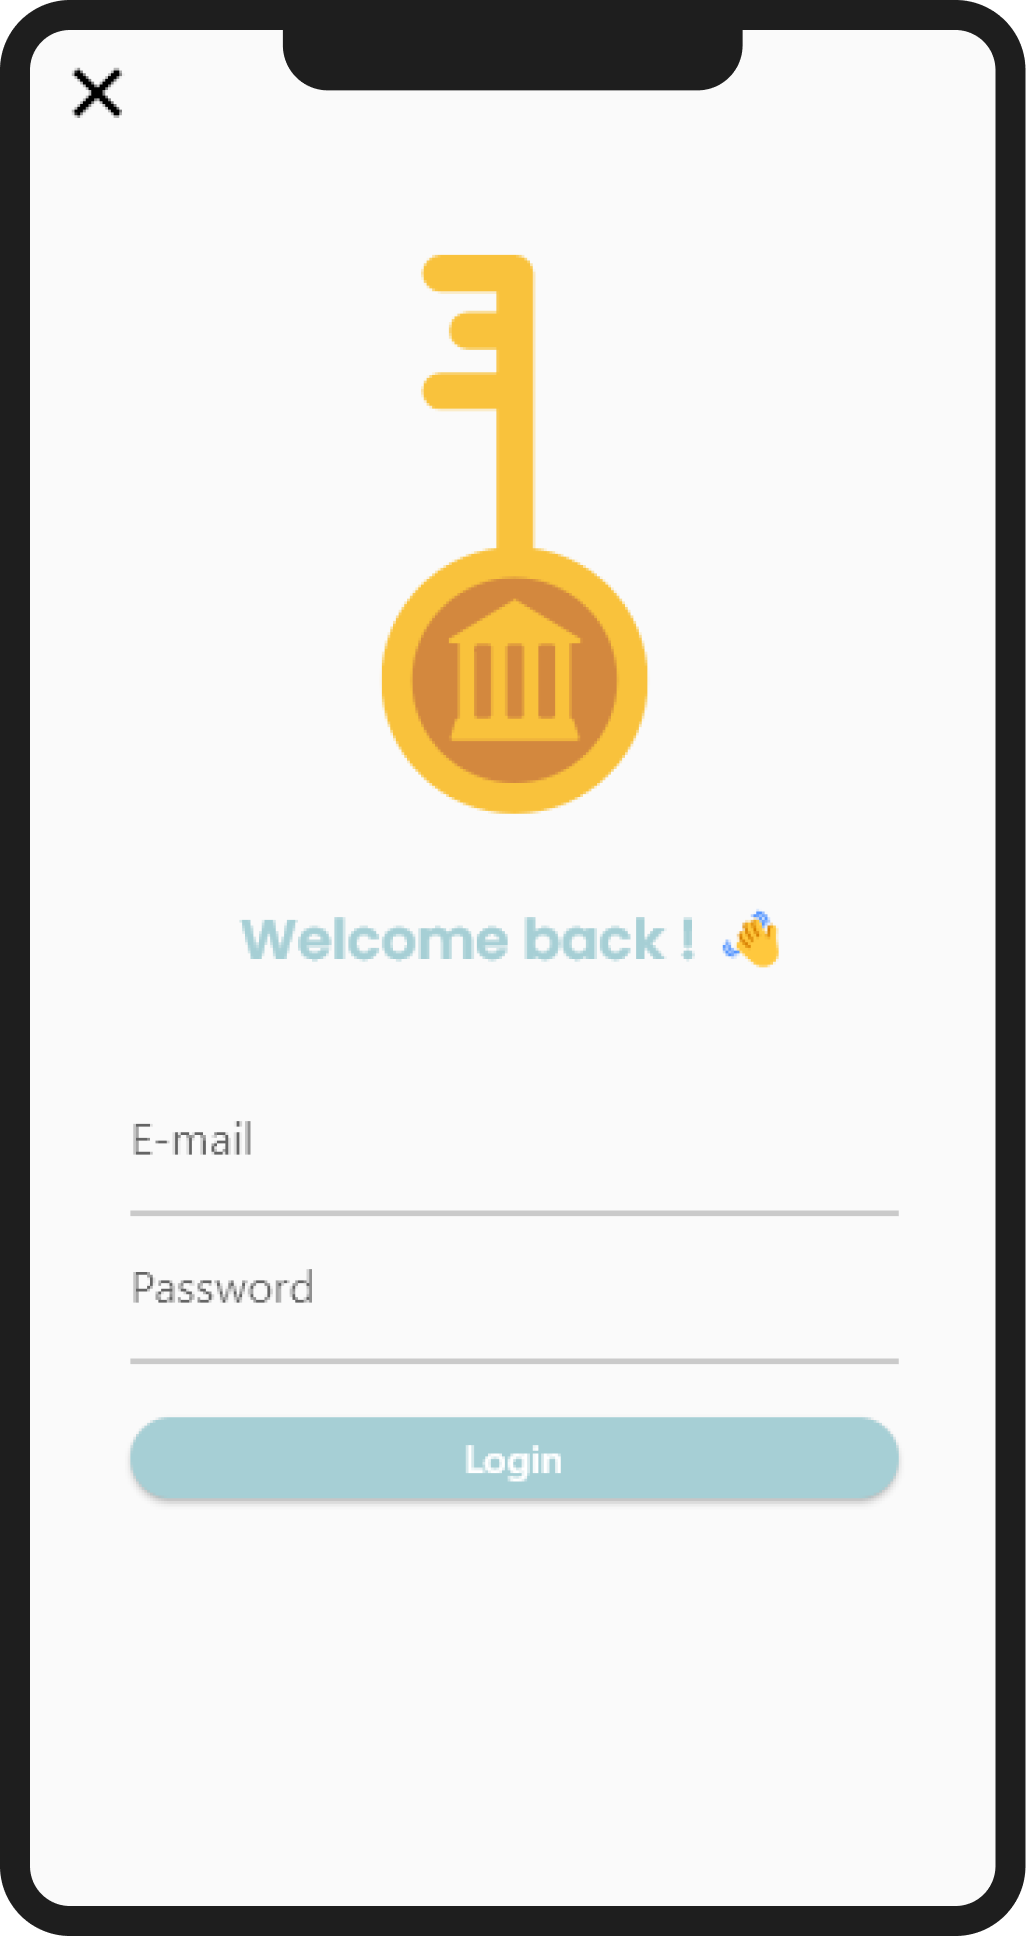
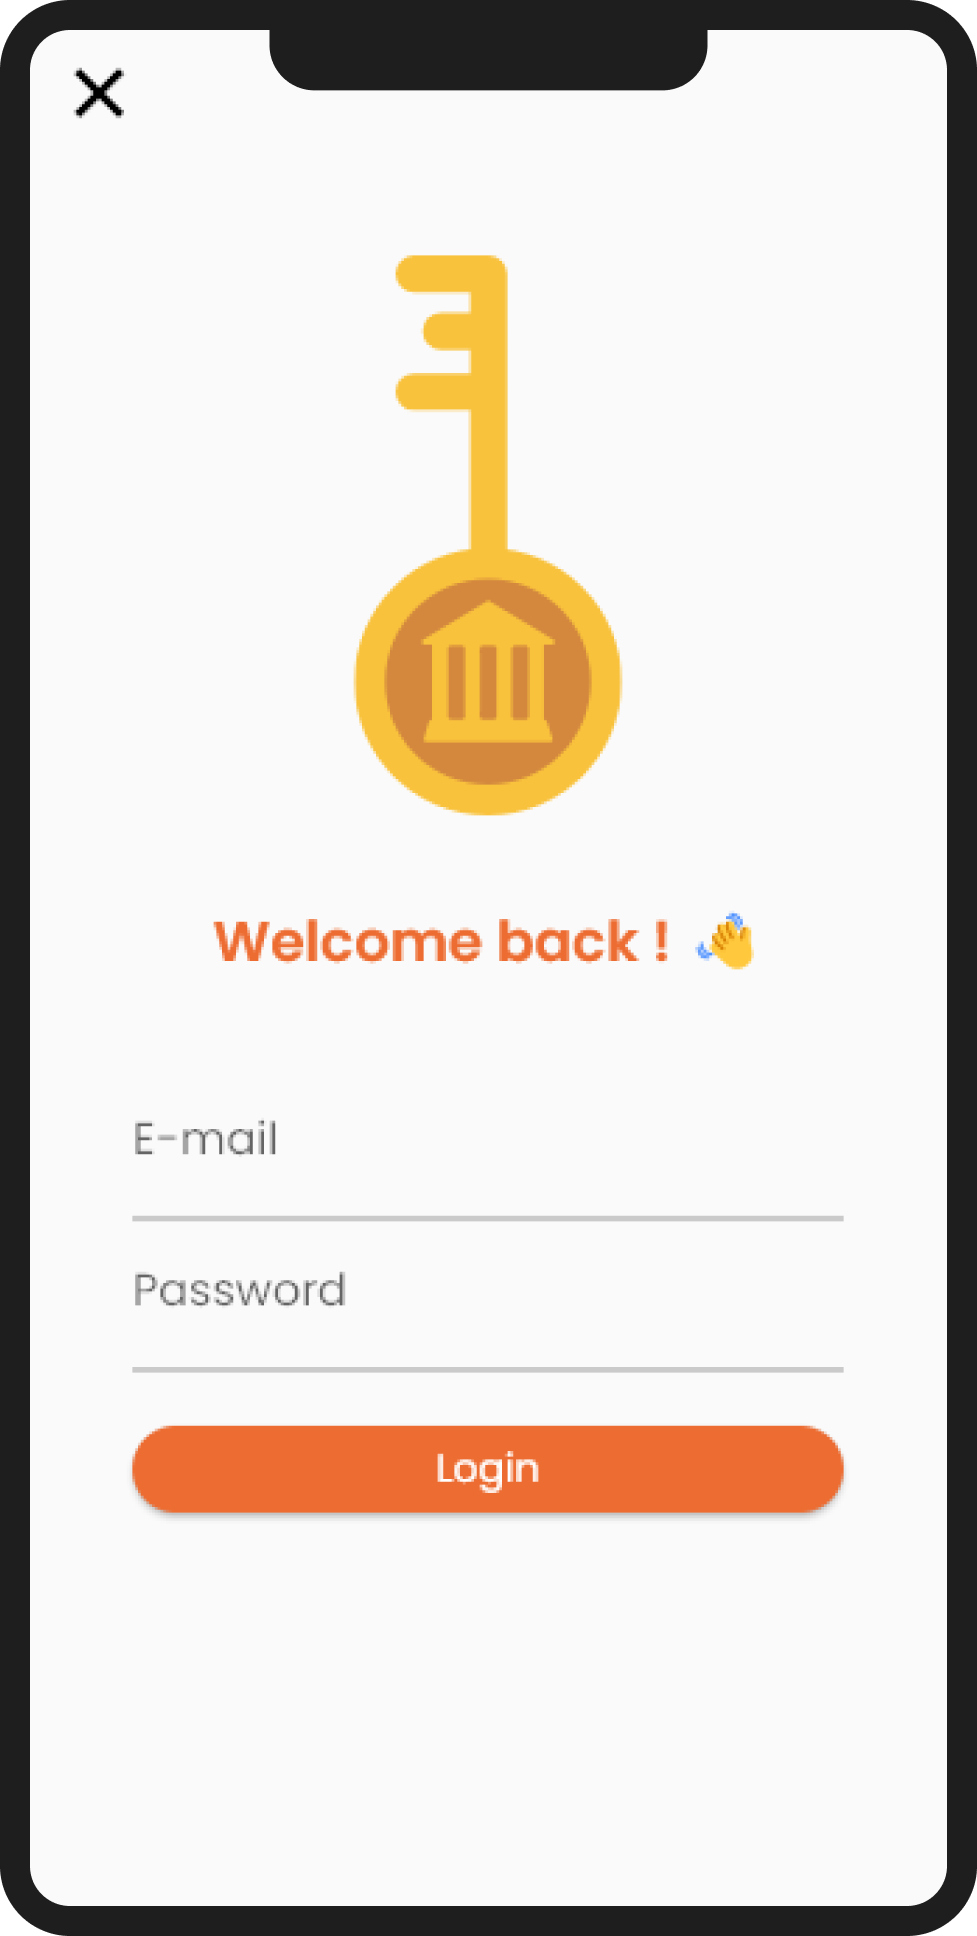
🌈 style: Looking Chart
General looking update

diff --git a/lib/pages/register_page.dart b/lib/pages/register_page.dart
@@ -32,7 +32,7 @@ class RegisterPage extends StatelessWidget {
               delay: 200,
               child: Column(children: [
                 Container(
-                  child: SvgPicture.asset('assets/images/user.svg'),
+                  child: SvgPicture.asset('assets/images/city.svg'),
                   height: 200,
                 ),
                 const SizedBox(height: 30),
@@ -74,7 +74,9 @@ class _RegisterFormState extends State<RegisterForm> {
         children: <Widget>[
           // Champ de saisie pour le nom d'utilisateur
           TextFormField(
-            decoration: const InputDecoration(labelText: 'Username'),
+            style: GoogleFonts.poppins(),
+            decoration: InputDecoration(
+                labelText: 'Username', labelStyle: GoogleFonts.poppins()),
             validator: (value) {
               if (value!.isEmpty) {
                 return 'Veuillez saisir votre nom d\'utilisateur';
@@ -87,7 +89,9 @@ class _RegisterFormState extends State<RegisterForm> {
           ),
           // Champ de saisie pour l'adresse e-mail
           TextFormField(
-            decoration: const InputDecoration(labelText: 'E-mail'),
+            style: GoogleFonts.poppins(),
+            decoration: InputDecoration(
+                labelText: 'E-mail', labelStyle: GoogleFonts.poppins()),
             validator: (value) {
               if (value!.isEmpty) {
                 return 'Veuillez saisir votre adresse e-mail';
@@ -100,7 +104,8 @@ class _RegisterFormState extends State<RegisterForm> {
           ),
           // Champ de saisie pour le mot de passe
           TextFormField(
-            decoration: const InputDecoration(
+            style: GoogleFonts.poppins(),
+            decoration: InputDecoration(
               labelText: 'Password',
               // Couleur de l'étiquette en sélection
             ),
@@ -119,10 +124,12 @@ class _RegisterFormState extends State<RegisterForm> {
           ),
           // Champ de saisie pour la confirmation du mot de passe
           TextFormField(
-            decoration: const InputDecoration(
-              labelText: 'Password confirmation',
-              // Couleur de l'étiquette en sélection
-            ),
+            style: GoogleFonts.poppins(),
+            decoration: InputDecoration(
+                labelText: 'Password confirmation',
+                labelStyle: GoogleFonts.poppins()
+                // Couleur de l'étiquette en sélection
+                ),
             obscureText: true, // Masquer le texte du mot de passe
             validator: (value) {
               if (value!.isEmpty) {
@@ -157,7 +164,7 @@ class _RegisterFormState extends State<RegisterForm> {
                   shape: const StadiumBorder(),
                   padding: const EdgeInsets.all(13),
                 ),
-                child: const Text('Register'),
+                child: Text('Register', style: GoogleFonts.poppins()),
               )),
         ],
       ),

diff --git a/lib/pages/login_page.dart b/lib/pages/login_page.dart
@@ -73,7 +73,11 @@ class _LoginFormState extends State<LoginForm> {
         children: <Widget>[
           // Champ de saisie pour l'adresse e-mail
           TextFormField(
-            decoration: const InputDecoration(labelText: 'E-mail'),
+            style: GoogleFonts.poppins(),
+            decoration: InputDecoration(
+              labelText: 'E-mail',
+              labelStyle: GoogleFonts.poppins(),
+            ),
             validator: (value) {
               if (value!.isEmpty) {
                 return 'Please enter your e-mail address';
@@ -86,7 +90,9 @@ class _LoginFormState extends State<LoginForm> {
           ),
           // Champ de saisie pour le mot de passe
           TextFormField(
-            decoration: const InputDecoration(
+            style: GoogleFonts.poppins(),
+            decoration: InputDecoration(
+              labelStyle: GoogleFonts.poppins(),
               labelText: 'Password',
               // Couleur de l'étiquette en sélection
             ),
@@ -122,7 +128,7 @@ class _LoginFormState extends State<LoginForm> {
                   shape: const StadiumBorder(),
                   padding: const EdgeInsets.all(13),
                 ),
-                child: const Text('Login'),
+                child: Text('Login', style: GoogleFonts.poppins()),
               )),
         ],
       ),

diff --git a/lib/pages/logger_page.dart b/lib/pages/logger_page.dart
@@ -71,7 +71,9 @@ class LoggerPage extends StatelessWidget {
                         Icon(Icons.person_add_alt),
                         SizedBox(width: 10),
                         Text('Join the team',
-                            style: GoogleFonts.poppins(color: Colors.white)),
+                            style: GoogleFonts.poppins(
+                                color: Colors.white,
+                                fontWeight: FontWeight.w500)),
                       ])),
                   SizedBox(height: 20),
                   ElevatedButton(
@@ -90,7 +92,8 @@ class LoggerPage extends StatelessWidget {
                         Icon(Icons.login, color: d_main),
                         SizedBox(width: 10),
                         Text('Welcome back',
-                            style: GoogleFonts.poppins(color: d_main)),
+                            style: GoogleFonts.poppins(
+                                color: d_main, fontWeight: FontWeight.w500)),
                       ])),
                 ]),
               )),

diff --git a/lib/pages/welcome_page.dart b/lib/pages/welcome_page.dart
@@ -47,7 +47,13 @@ class WelcomePage extends StatelessWidget {
                     shape: StadiumBorder(),
                     padding: EdgeInsets.all(13),
                   ),
-                  child: Text('Get Started'),
+                  child: Text(
+                    'Get Started',
+                    style: GoogleFonts.poppins(
+                      fontWeight: FontWeight.w500,
+                      color: Colors.white,
+                    ),
+                  ),
                   onPressed: () {
                     Navigator.push(context,
                         MaterialPageRoute(builder: (context) => LoggerPage()));

diff --git a/lib/main.dart b/lib/main.dart
@@ -2,7 +2,9 @@ import 'package:flutter/material.dart';
 import 'package:residencekeeper/pages/main_page.dart';
 import 'package:residencekeeper/pages/welcome_page.dart';
 
-const d_main = const Color(0xFFA6CFD5);
+// const d_main = const Color(0xFFA6CFD5);
+const d_main = const Color(0xFFED6C31);
+const d_main_light = const Color(0xFFffb08c);
 const d_main_dark = const Color(0xFF85a4a8);
 
 void main() {

diff --git a/README.md b/README.md
@@ -50,6 +50,11 @@ The Residence Keeper API provides the backbone for seamless data synchronization
   <img src="readme/login.png" height=300>
   <img src="readme/register.png" height=300>
 </div>
+</br>
+<div style="display:flex; justify-content:center; align-items:center; ">
+  <img src="readme/balance.png" height=300>
+  <img src="readme/add.png" height=300>
+</div>
 </div>
 
 ## Author
